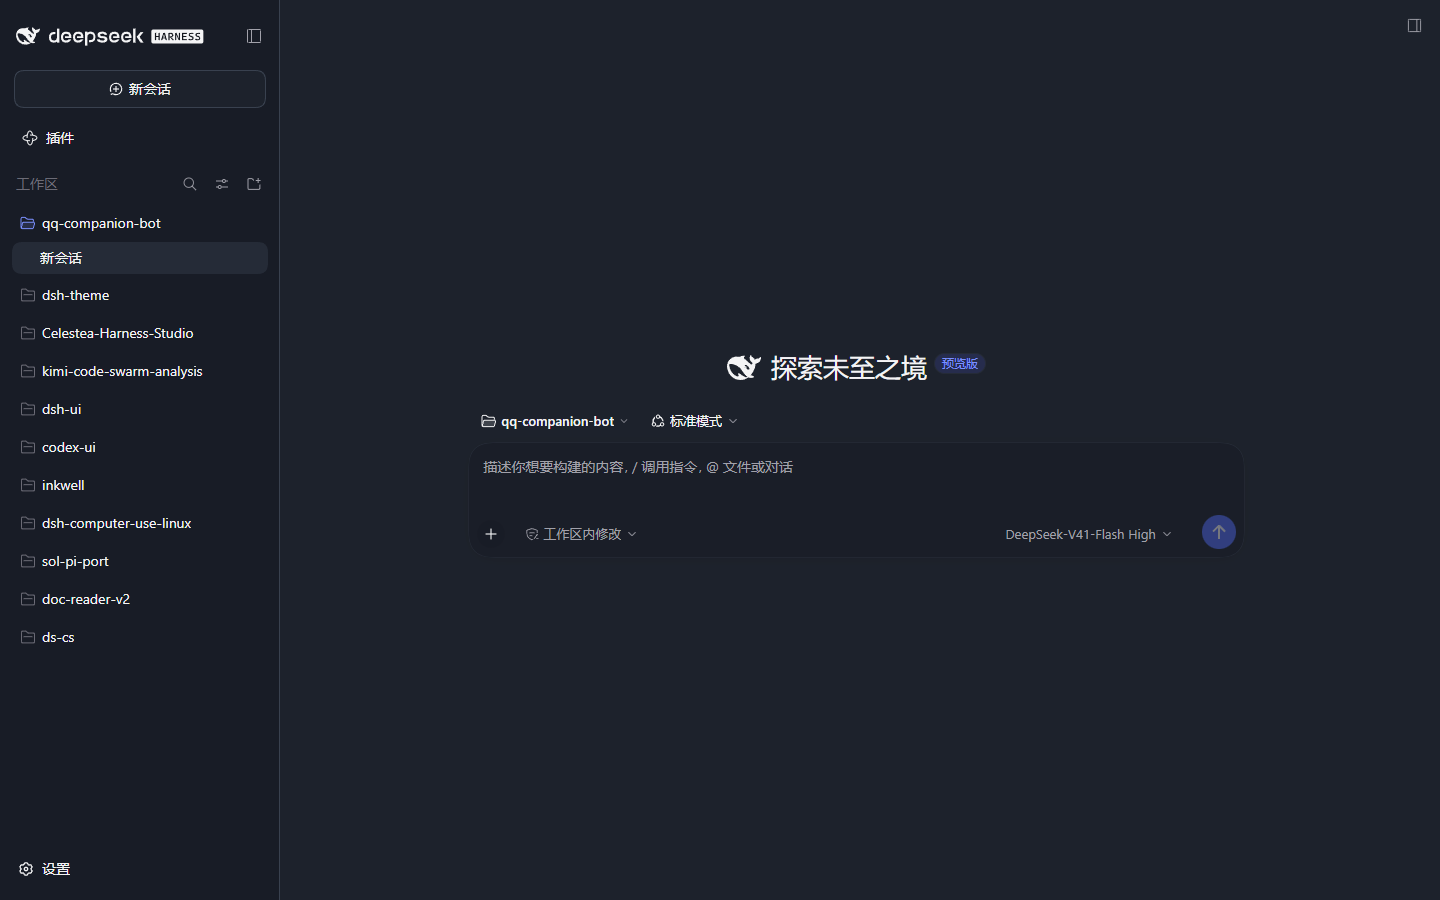
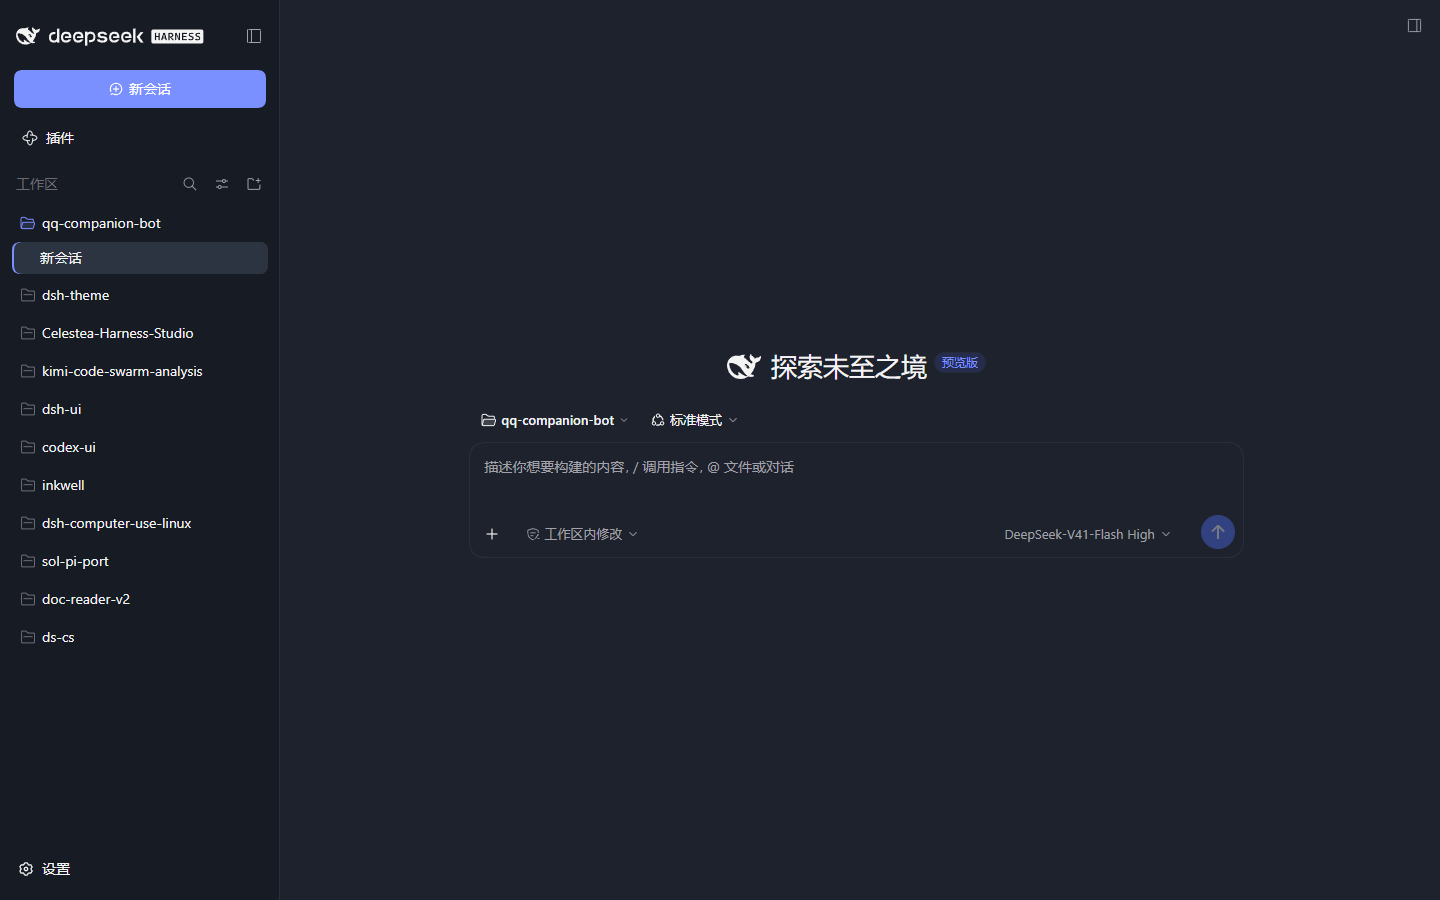
M4: 收口（README + 三件套补齐 + 笔记归档 + 仓库清理），回归全绿
- README.md：先讲怎么用（启用条件 / 试穿·应用·切回 / 换机器安装），再讲改了什么、
  已知缺口、构建链与验证方法、文档索引
- AGENTS.md Quick Commands 分快慢两层（快层=构建+守卫，全量层=同步+验收脚本）
- 决策笔记归档：M1 bundle 注入链路笔记 implemented/ → archived/（路线已废弃），
  更新 Status 与 HANDOFF-M1 里的失效路径引用
- 仓库清理：移除误跟踪的 .agents/shots/_instance_url.txt（含实例 token），.gitignore 加规则防复发
- 回归（隔离 web profile 实例重跑）：_m2_verify 91 token × 明暗全绿、
  _m3_verify 组件层 24 断言全绿、_m3_compare 与 preview 基准逐项对照仅剩 1 项已知可接受偏差
- HANDOFF §9 增用户真机验收清单（唯一需要用户在场的步骤）；M3 遗留缺口改标 M5/二期候选

diff --git a/README.md b/README.md
@@ -1,0 +1,83 @@
+# dsh-ui 皮肤（dsh-theme）
+
+把 [dsh-ui 设计规范](E:/dsh-ui) 做成 DSH Web GUI 的皮肤：蓝调画布 + 纯白卡片、DeepSeek 品牌蓝、明暗双套。**一键应用，一键切回官方默认**，不刷新页面、不重启。
+
+| 浅色 | 深色 |
+|---|---|
+| ![浅色](skins/dsh-ui/preview/light.jpg) | ![深色](skins/dsh-ui/preview/dark.jpg) |
+
+---
+
+## 怎么用
+
+### 启用条件（两条，缺一不可）
+
+1. **皮肤中心（skin-center）保持启用** —— 它是唯一的皮肤加载器/渲染器。
+2. **dsh-claude-style 必须关闭** —— 两者都是整体改造型皮肤，同时开启会互相覆盖。
+
+### 应用 / 试穿 / 切回
+
+设置 → 皮肤 → 找到「**dsh-ui Design Spec**」卡片：
+
+- **试穿**：即时预览，退出设置即还原，不动你的持久设置。
+- **应用**：持久生效（当场生效，无需刷新或重启）。
+- **切回**：点「官方默认」卡的「恢复默认」，同样当场还原。
+
+### 换机器 / 首次安装
+
+把整个 `skins/dsh-ui/` 目录拷到 `$DSH_HOME/skins/`（本机 = `C:\Users\pass\.dsh\skins\`），刷新 GUI 即出现在皮肤列表里。
+
+---
+
+## 它改了什么
+
+皮肤是**纯资产目录**——不写插件、不接任何可执行代码，只有 CSS 与图片：
+
+- **L1 色板层**：91 个官方 `--dsw-*` token 重映射（明暗双套），值全部取自 dsh-ui 规范的 `:root`。
+- **L2/L3 组件层**：输入卡（20px 圆角白卡 + 1px 描边 + 聚焦品牌色）、侧栏（纯色衬底 + subtle 分隔线）、新建会话（实心主按钮）、会话选中态（底色 + 2px 品牌色左缘指示条）、设置面板圆角、聚焦环。
+- 明暗两套都覆盖；深色不是浅色的反相，层次靠明度差。
+
+## 已知缺口
+
+| 缺口 | 说明 |
+|---|---|
+| 模型档位 pill | 规范里档位选择器是浅蓝胶囊，GUI 里该控件只有哈希类名、无语义属性可锚——按契约纪律不硬上，待上游补 `data-dsh-part`。 |
+| 排版层（font） | 181 个 font token 未接管，GUI 仍是官方字号体系（官方有 72 处 `font:` 简写消费，局部映射会自相矛盾）。 |
+| loader 派生区依赖 | 组件层依赖皮肤中心把 `--dsw-alias-*` 派生到非 alias 命名空间的行为；loader 升级后需重跑验收脚本回归。 |
+| 卡片预览图 | 1440×900 缩到卡片尺寸后细节偏小，可考虑更聚焦的构图。 |
+
+---
+
+## 自己改 / 重新构建
+
+视觉数值的唯一来源是 **dsh-ui 的 `preview/index.html` 的 `:root`**；`skin.css` 是生成物，**禁止手改**。
+
+```bash
+# ① 改视觉：色板类改 mapping.json，组件类改 skins/dsh-ui/patches.css
+# ② 构建（从 preview :root 生成 skin.css，并校验 patches.css 的 var() 引用）
+node scripts/build-skin.mjs
+# ③ 同步上架（→ $DSH_HOME/skins/dsh-ui/，含 preview/ 子目录）
+node scripts/sync-skin.mjs
+```
+
+两个手工维护物都**只准用 `var(--dsh-*)` / `var(--dsw-*)` 引用数值**，不写裸 hex/尺寸：`mapping.json` 管 L1 契约 token，`patches.css` 管 L2/L3 组件规则与非 alias 命名空间重绑定。
+
+## 验证
+
+- **快层（秒级，随时跑）**：`node scripts/build-skin.mjs` —— 顺带校验 `patches.css` 引用存在、与 shell 自有变量不重名。
+- **全量层（隔离实例 + Playwright）**：`.agents/shots/_m2_verify.py`（91 token × 明暗全量断言）、`_m3_verify.py`（组件层断言）、`_m3_compare.py`（与 dsh-ui preview 基准逐项对照）。完整起停流程见 [HANDOFF.md](HANDOFF.md) §5。
+
+---
+
+## 目录与文档
+
+| 路径 | 是什么 |
+|---|---|
+| `skins/dsh-ui/` | 皮肤源目录（skin.json 清单 + 生成的 skin.css + 手写 patches.css + preview/ 预览图） |
+| `mapping.json` | L1 映射表（dsh-ui token → 官方 `--dsw-*`，人工策展） |
+| `scripts/` | 构建与同步脚本 |
+| [AGENTS.md](AGENTS.md) | 项目规矩与 Quick Commands |
+| [ARCHITECTURE.md](ARCHITECTURE.md) | 结构地图（改动该落在哪） |
+| [.agents/notes/](.agents/notes/) | 决策史（目录树即索引） |
+| [docs/spec.md](docs/spec.md) · [docs/milestones.md](docs/milestones.md) | 范围与里程碑（验收权威） |
+| [HANDOFF.md](HANDOFF.md) | 交接文档（当前状态 + 施工要点 + 验收方法论） |

diff --git a/HANDOFF.md b/HANDOFF.md
@@ -1,11 +1,11 @@
-# dsh-theme 交接文档（2026-10-04 · M3 完成后）
+# dsh-theme 交接文档（2026-10-04 · M4 收口）
 
-> 给下一个会话：本项目当前状态、继续施工所需的一切。读完这份直接开 M4，不需要重调研。
+> 给下一个会话：本项目当前状态、继续施工所需的一切。M1–M3 已完成并自动化验收；M4 只剩用户真机验收（清单见 §9）。后续候选见 milestones.md 的 M5。
 > 权威文档：docs/spec.md（范围）· docs/milestones.md（M1 ✅ / M2–M4 待做）· ARCHITECTURE.md（结构）· AGENTS.md（红线与命令）。
 
 ## 1. 一句话现状
 
-**M3 已完成并自动化验收通过**：组件层（patches.css = L2 语义属性规则 + L3 兜底 + 非 alias 命名空间 token 重绑定）落地，输入卡/侧栏/主按钮/选中态/设置面板几何与 preview 基准逐项一致（24 条断言 + 跨页对照，仅 1 项可接受偏差），皮肤卡已显示 preview/light.jpg + dark.jpg。**下一步 = M4 收口（README、三件套补齐、决策笔记归档、用户真机验收）；已知缺口见 milestones.md M3 备注与归属笔记。**
+**M1–M3 已完成并自动化验收通过；M4 收口自动化部分已完成**：README.md 落地、三件套补齐、M1 bundle 笔记归档、仓库清理（token 文件移除 + .gitignore）；隔离实例重跑三套验收脚本全绿（91 token × 明暗 / 组件层 24 断言 / 与 preview 基准逐项对照仅 1 项可接受偏差）。**剩余 = 用户真机验收（§9 清单）。**
 
 ## 2. 路线（为什么是这个形态）
 
@@ -73,3 +73,18 @@ Playwright 要点（脚本参考 .agents/shots/_e2e*.py，M1 实证可用）：
 - web profile：已还原干净（M2 验收后，含 .pnpm/lock.yaml 隐藏副本已清）。
 - $DSH_HOME/skin-center-active.json：active=dsh-ui（用户的桌面 GUI 刷新即生效）。
 - E:\dsh-theme：git master。.agents/shots/ 里是 M1+M2 验收截图与脚本（M2 脚本 _m2_verify.py 可直接复跑做回归）。
+
+## 9. M4 真机验收清单（唯一需要用户在场的步骤）
+
+桌面 GUI 有 token 认证，代理无法自动验收；以下是逐项可勾的清单（3 分钟）：
+
+1. **刷新桌面 GUI**（皮肤文件已同步、激活态未变，刷新即生效）。
+2. **看整体观感**：蓝调画布 + 纯白卡片；左侧栏淡蓝衬底、右侧一条细分隔线；输入卡是 20px 大圆角白卡、聚焦时描边变品牌蓝并有阴影。
+3. **主按钮**：侧栏「新会话」是实心品牌蓝（不是描边样式）。
+4. **选中态**：当前会话条目底色为浅蓝 + 左缘 2px 品牌蓝竖条。
+5. **深色切换**：设置 → 通用设置 → 外观 → 深色；确认背景变蓝黑、卡片变深灰蓝、无发白残留。
+6. **设置页**：面板 20px 圆角、卡片白底细描边、控件正常可点。
+7. **切回官方默认**：设置 → 皮肤 → 官方默认卡「恢复默认」→ 当场还原；再点 dsh-ui 的「应用」→ 当场变回。
+8. **日常使用一轮**：开新会话发一条消息，看气泡/代码块/工具行观感是否可接受（这是唯一自动化覆盖不到的区域，若有不顺眼处记下来回传）。
+
+**发现问题怎么回传**：说明「哪一步 + 期望 vs 实际」，附截图更好；代理可据此补断言、写进验收脚本再修。

diff --git a/docs/milestones.md b/docs/milestones.md
@@ -17,11 +17,12 @@
 - 验收证据：① _m3_verify.py 24 条断言全绿（输入卡 20px 白底 1px 描边、侧栏纯色 + subtle 分隔线、新建会话实心主按钮、会话选中 bg-active + 2px 品牌色指示条、设置面板 20px，明暗双套）；② _m3_compare.py 与 preview 基准逐项对照，5 组件 × bg/radius/border 仅剩 1 项可接受偏差（GUI「预览版」徽章多 1px 近同色描边）；③ 构建守卫负控制已证明会红；④ 皮肤卡加载 preview/light.jpg（natural 1440×900）。截图 m3-*.png。
 - 关键发现：皮肤中心把 --dsw-alias-* 派生到 shell 实际消费的非 alias 命名空间（--dsw-specific-*），且 --dsw-radius-* 不在 299 契约内——这是 M2 只改色板、改不动组件几何的根因。
 - 用户裁定：font 全家 181 个不纳入本期（官方 72 处 font: shorthand 消费使「只映分项」自相矛盾；全量接管会作废本期截图基线）。
-- 已知缺口（M4 候选）：模型档位 pill 无稳定语义属性（需向 dsh-ui 提 data-dsh-part）；font 排版层未接管；卡片预览图缩放后细节偏小。
+- 已知缺口（**M5/二期候选**，不在 M4 范围）：模型档位 pill 无稳定语义属性（需向 dsh-ui 提 data-dsh-part）；font 排版层未接管；卡片预览图缩放后细节偏小；对 loader 派生区的隐式依赖需回归。
 
-## M4 收口
-- 产出：README（启用条件/应用方法/与 claude-style 互斥说明）、三件套补齐、决策笔记归档、用户真机验收。
-- 验收：应用 → 日常使用 → 切回官方默认，全链路用户确认。
+## M4 收口 —— ⏳ 自动化部分完成（2026-10-04），待用户真机验收
+- 产出：README.md（先讲怎么用：启用条件 / 试穿·应用·切回 / 换机器安装 / 构建链 / 验证 / 已知缺口）；三件套补齐（AGENTS.md Quick Commands 分快慢两层、ARCHITECTURE.md 回写 M3 边界、.agents/notes/ 归档 M1 bundle 笔记至 archived/ 并更新 Status）；仓库清理（移除误跟踪的 _instance_url.txt——含实例 token，.gitignore 加规则防复发）。
+- 验收证据（自动化部分，2026-10-04 重跑）：隔离实例跑 _m2_verify.py（91 token × 明暗 + 根底色全绿）、_m3_verify.py（组件层 24 断言全绿）、_m3_compare.py（与 preview 基准逐项对照，仅 1 项已知可接受偏差）；快层构建 + 守卫通过。
+- 待用户完成：真机验收清单（HANDOFF.md §9）——应用 → 日常使用 → 切回官方默认，全链路确认。
 ## M5 插件化（终局，用户 2026-10-03 明确方向）
 - 前置：先根因 2026-10-03 自制 bundle client 半未激活问题（对照 skin-center 的 client inject 声明与装配源码，活样本在本机）。
 - 产出：自研皮肤插件（bundle 形态参照 dsh-claude-style）：样式层复用 mapping.json 与构建链注入全量视觉；功能层 = Deepy 状态机（design-spec §7.2 事件映射）+ 设置面板开关。

diff --git a/AGENTS.md b/AGENTS.md
@@ -4,9 +4,14 @@
 
 ## Quick Commands
 
-- 构建皮肤：`node scripts/build-skin.mjs`（从 dsh-ui/preview/index.html :root 生成 skin.css：91 契约 token + 99 个 --dsh-* 变量；同时校验 patches.css 的 var() 引用）
-- 同步上架：`node scripts/sync-skin.mjs`（skins/dsh-ui/ → C:\Users\pass\.dsh\skins\dsh-ui\）
-- 验证：隔离 web profile 实例 + Playwright（完整流程见 HANDOFF.md §5；桌面 GUI 有 token 认证，勿硬闯）
+**快层（秒级，改完随时跑）**
+
+- 构建 + 守卫校验：`node scripts/build-skin.mjs`（从 dsh-ui/preview/index.html :root 生成 skin.css：91 契约 token + 99 个 --dsh-* 变量；校验 patches.css 的 var() 引用与 shell 保留变量重名）
+
+**全量层（收口用）**
+
+- 同步上架：`node scripts/sync-skin.mjs`（skins/dsh-ui/ → C:\Users\pass\.dsh\skins\dsh-ui\，含 preview/ 子目录）
+- 验收：隔离 web profile 实例 + Playwright 跑 `.agents/shots/_m2_verify.py` / `_m3_verify.py` / `_m3_compare.py`（完整起停与还原流程见 HANDOFF.md §5；桌面 GUI 有 token 认证，勿硬闯）
 
 ## 项目红线
 

diff --git a/.agents/notes/archived/feature/2026-10-03-m1-bundle-wiring.md b/.agents/notes/archived/feature/2026-10-03-m1-bundle-wiring.md
@@ -1,6 +1,6 @@
-# Agent Note: M1 注入链路契约（bundle → client → 页面）
+# Agent Note: M1 注入链路契约（bundle → client → 页面）【已归档】
 
-Status: implemented — M1 落地，desktop 装机待用户重启确认
+Status: archived — 该路线 2026-10-03 被皮肤目录路线取代（见 .agents/notes/implemented/feature/2026-10-03-project-scope-and-tech-route.md 修订段），遗物在 .agents/retired/2026-10-03-m1-bundle/。本笔记保留为失败证据：它记录的 client 半加载契约仍然真实，但已无施工价值。
 
 ## Problem
 

diff --git a/HANDOFF-M1.md b/HANDOFF-M1.md
@@ -156,7 +156,7 @@ E:\dsh-theme\
 ├─ ARCHITECTURE.md         结构地图
 ├─ docs/spec.md            范围权威
 ├─ docs/milestones.md      M1–M4 里程碑与验收
-└─ .agents/notes/implemented/feature/2026-10-03-m1-hello-skin-wiring.md
+└─ .agents/notes/archived/feature/2026-10-03-m1-bundle-wiring.md（2026-10-04 随路线废弃归档）
 ```
 
 ---
